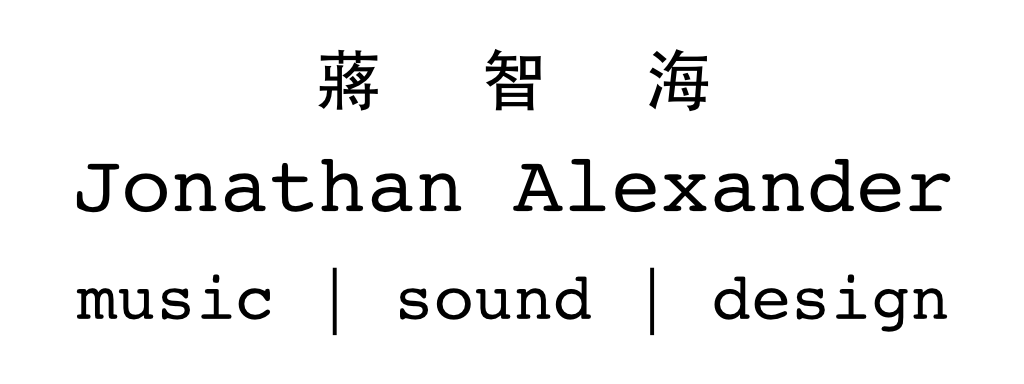
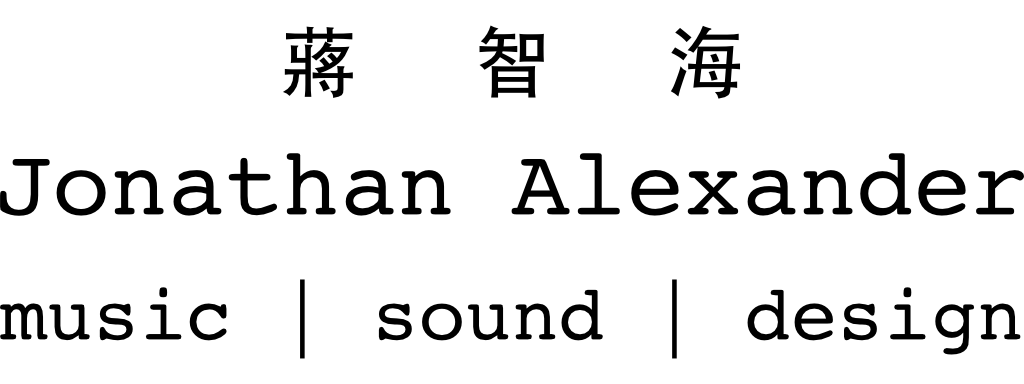
又更改標題

diff --git a/stylesheet.css b/stylesheet.css
@@ -305,9 +305,9 @@ footer .copyright {
 }
 
 .welcome .hero .title img {
-    max-width: 80%;
+    max-width: 70%;
     filter: opacity(70%);
-    margin-top: -0.25rem;
+    margin: 0.75rem;
 }
 
 /* EVENT */
